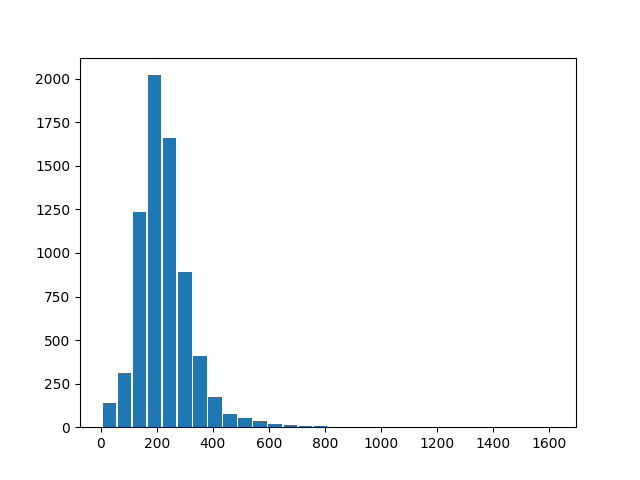
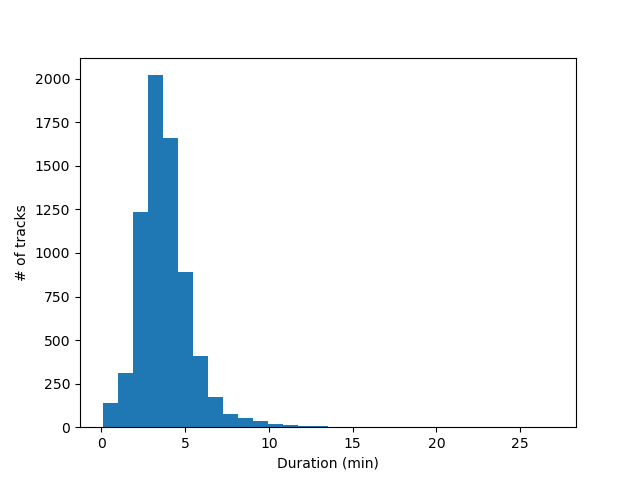
Standardize things

diff --git a/src/data_characterization/song_distribution_by_duration.py b/src/data_characterization/song_distribution_by_duration.py
@@ -5,8 +5,16 @@ import pandas as pd
 filename = argv[1]
 
 df = pd.read_csv(filename, sep=';')
-plt.hist(df['track_duration (s)'].values, 30)
+durations_min = df['track_duration (s)'].apply(lambda x: x/60).values
+
+plt.hist(durations_min, 30)
+plt.xlabel('Duration (min)')
+plt.ylabel('# of tracks')
 plt.savefig('analysis/song_distribution_by_duration.png')
-plt.yscale('log', nonposy='clip')
-plt.hist(df['track_duration (s)'].values, 30)
+
+plt.figure()
+plt.yscale('log')
+plt.hist(durations_min, 30)
+plt.xlabel('Duration (min)')
+plt.ylabel('# of tracks')
 plt.savefig('analysis/song_distribution_by_duration_log.png')

diff --git a/src/data_characterization/song_distribution_by_year.py b/src/data_characterization/song_distribution_by_year.py
@@ -8,4 +8,4 @@ df = pd.read_csv(filename, sep=';')
 plt.hist(df['album_release_date'].values, range(1935, 2025, 5))
 plt.xlabel('Track release date')
 plt.ylabel('# of tracks')
-plt.savefig('analysis/tracks_by_year.png')
+plt.savefig('analysis/song_distribution_by_year.png')

diff --git a/src/data_characterization/lyrics_existence.py b/src/data_characterization/lyrics_existence.py
@@ -10,4 +10,4 @@ has = df['lyrics'].shape[0] - hasnot
 
 plt.bar(['has', 'has not'], [has, hasnot])
 plt.ylabel('# of tracks')
-plt.savefig('analysis/tracks_lyrics_existence.png')
+plt.savefig('analysis/song_lyrics_existence.png')
